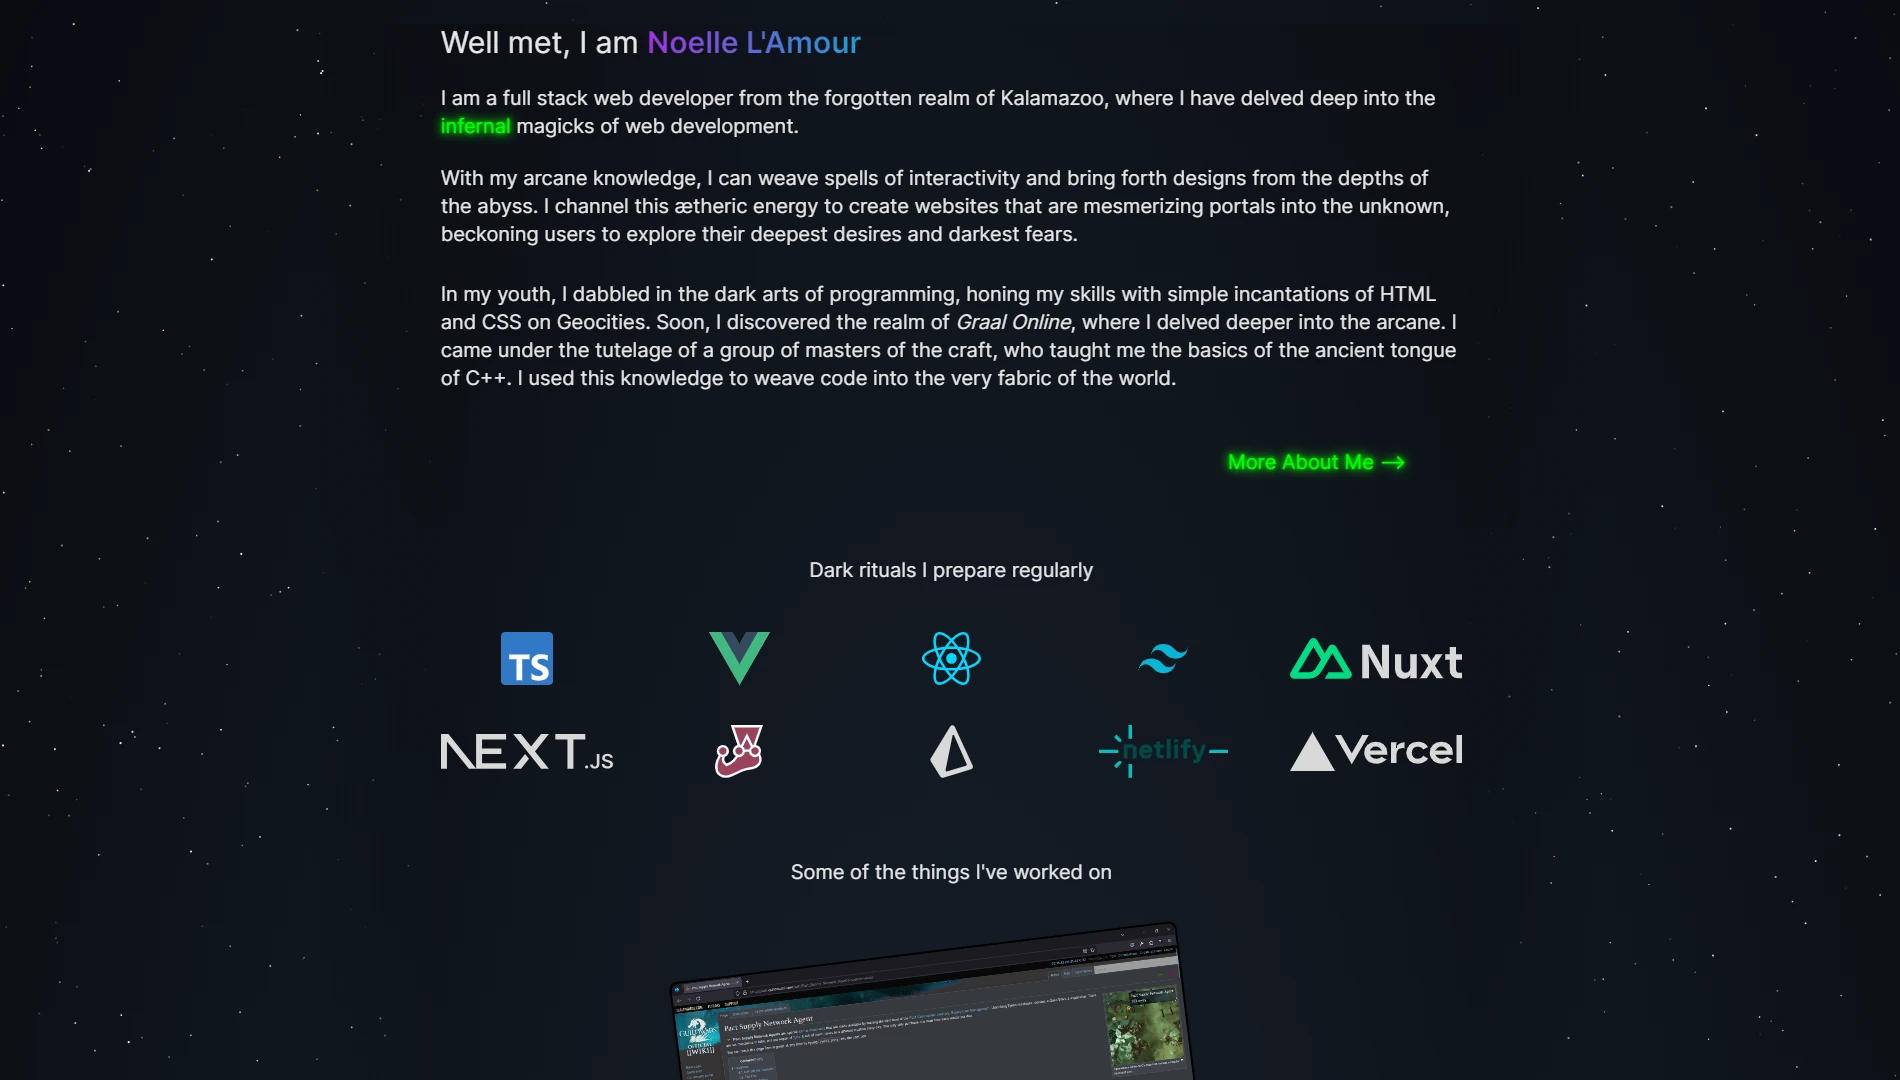
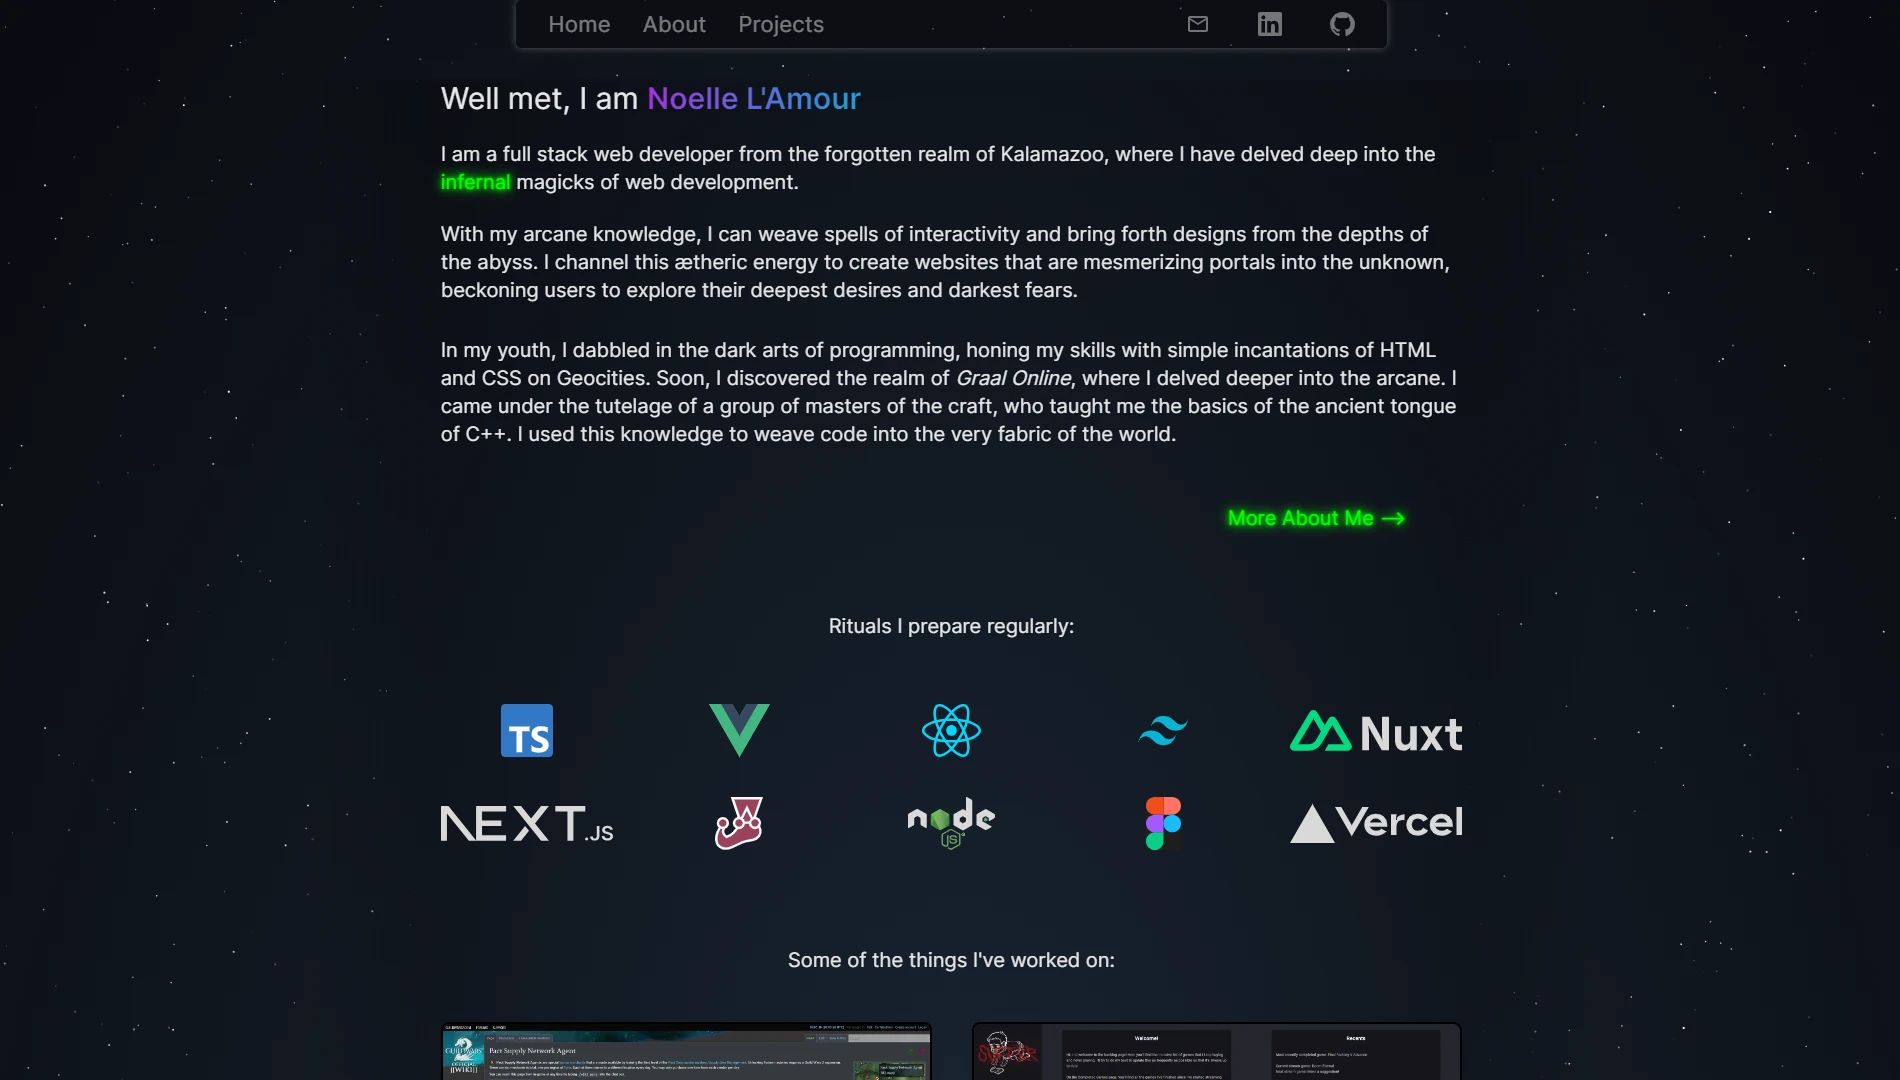
fix formatting, update image to reflect current

diff --git a/src/components/Logos/Tech.tsx b/src/components/Logos/Tech.tsx
@@ -2,7 +2,7 @@ import { techStacks } from ".";
 const Tech = (): JSX.Element => {
   return (
     <section>
-      <h2 className="mt-12 text-center text-xl">Rituals I prepare regularly</h2>
+      <h2 className="mt-12 mb-16 text-center text-xl">Spell components I regularly prepare:</h2>
       <ul className="mt-[5.5rem] md:mt-12 grid grid-cols-1 gap-10 place-content-center justify-items-center sm:grid-cols-2 md:grid-cols-3 md:gap-10 lg:grid-cols-4 xl:grid-cols-[repeat(auto-fill,minmax(15%,1fr))]">
         {techStacks.map((stack) => (
           <li key={stack.key}>{stack}</li>
